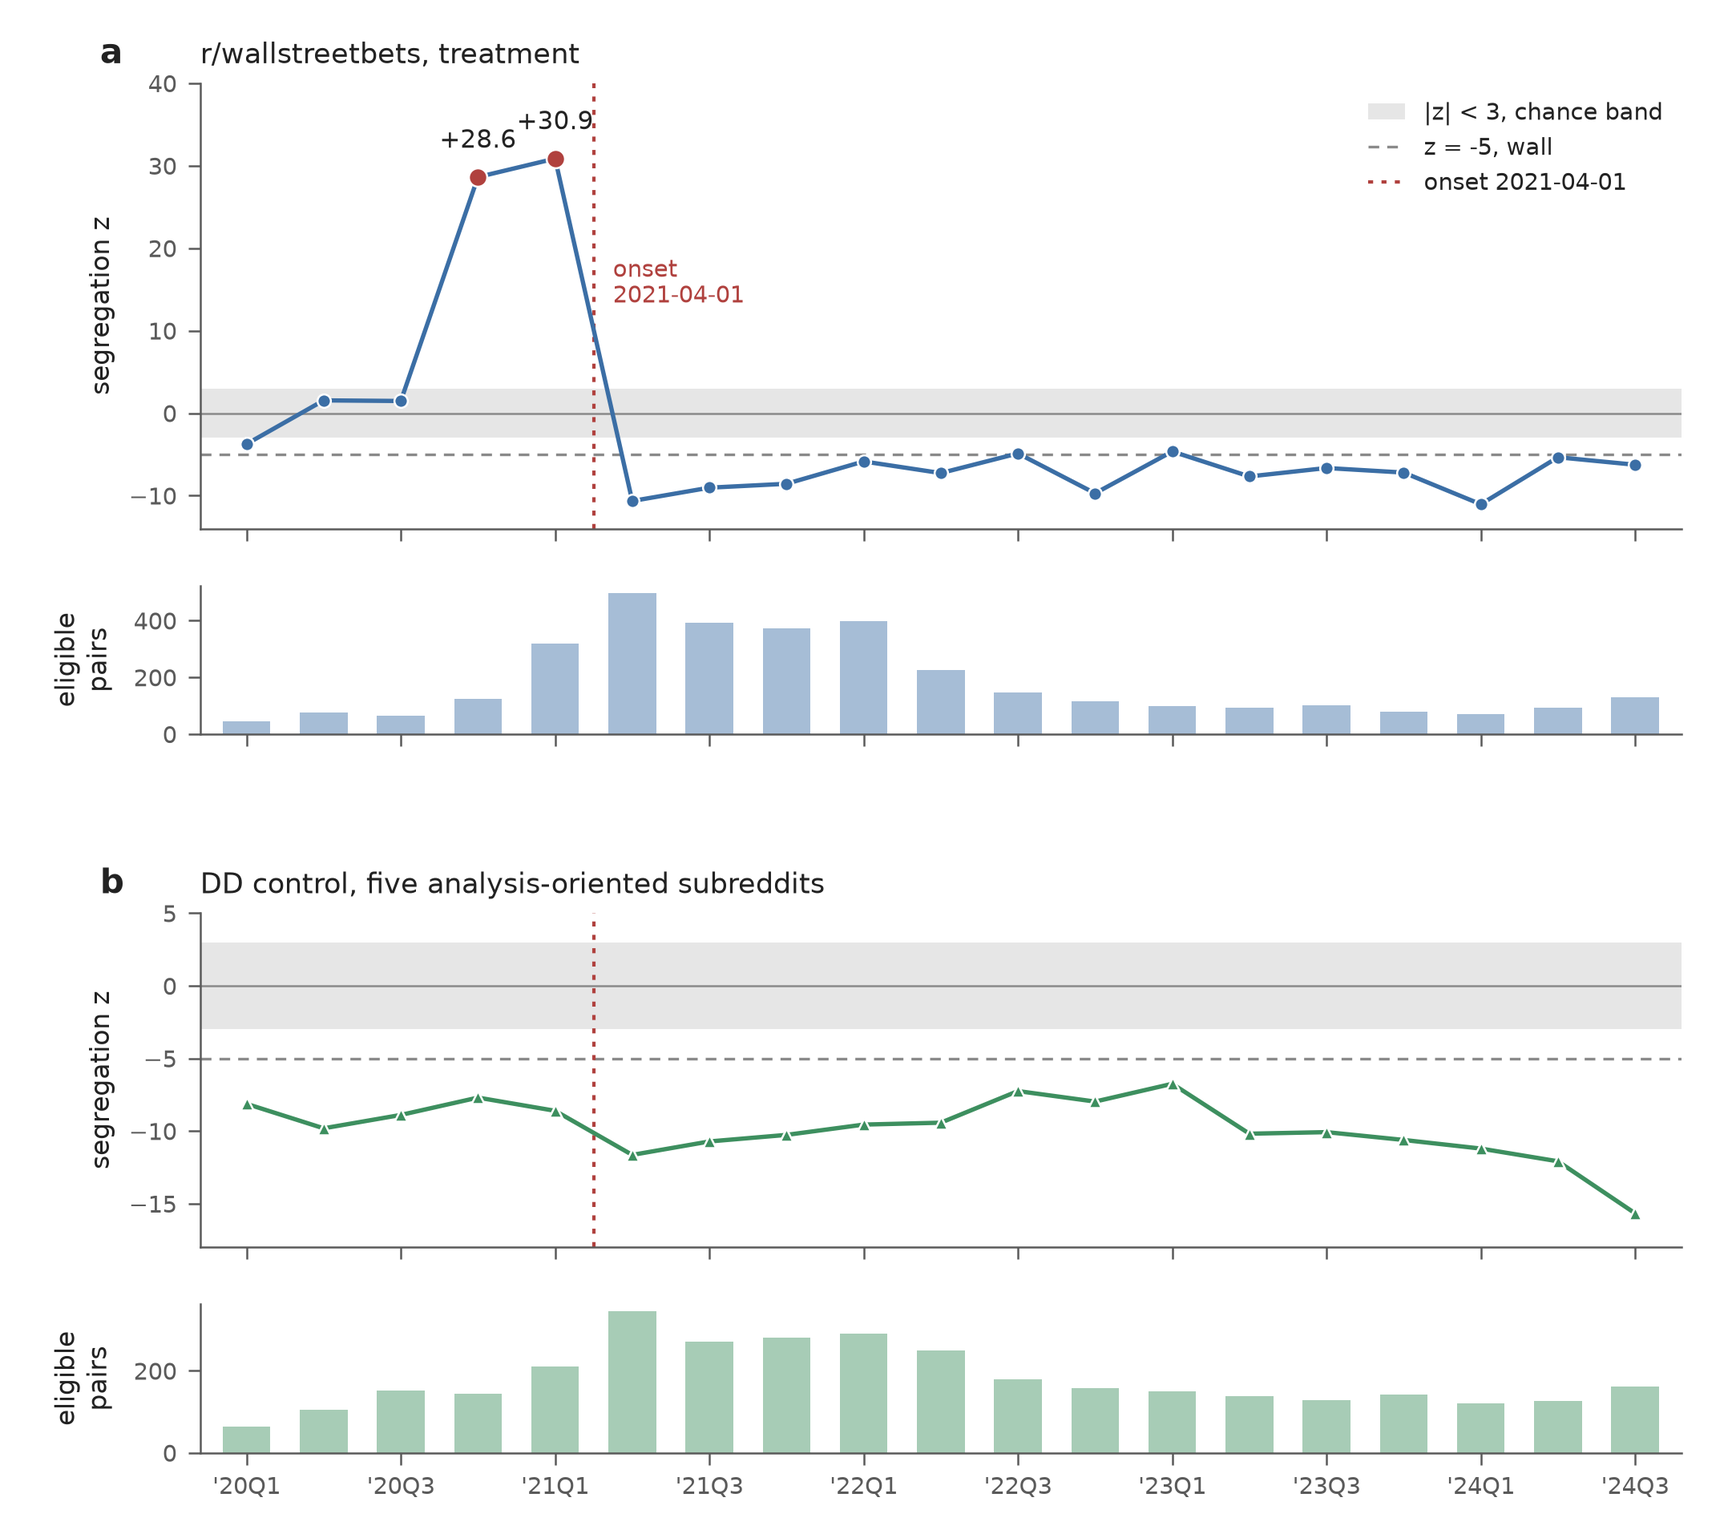
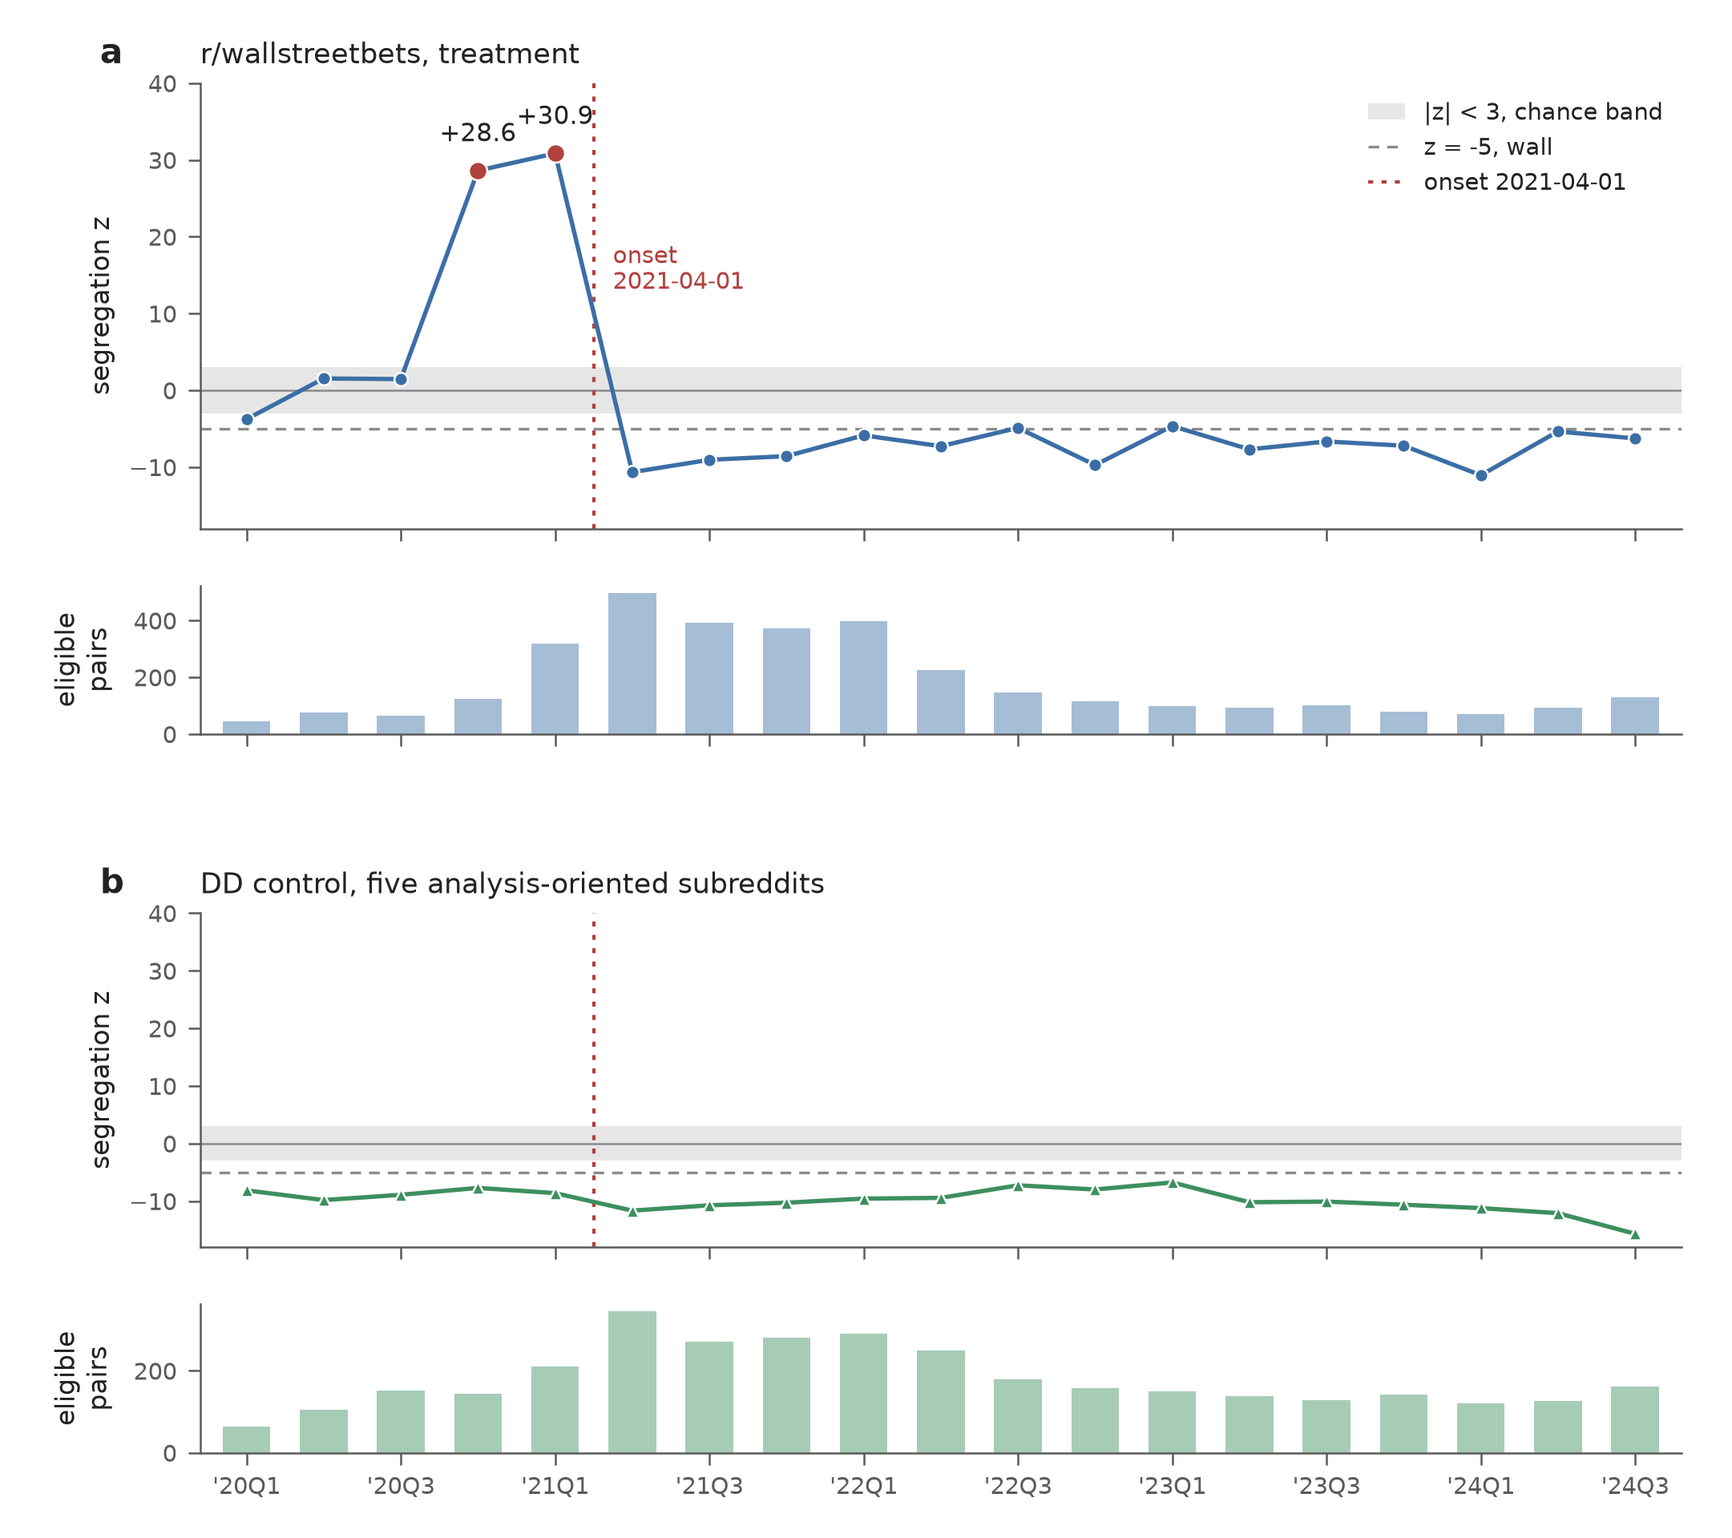
Paper 2 v0.5: references cleaned, A8 dated by Wayback (predates the squeeze; disclosed), A1 pre-lawsuit source added, tables numbered 1-7, Figure 2 panels share a y-scale
References: heading note removed; paper-1 entry reads "Preprint; SocArXiv
DOI inserted at posting"; anchor preamble loses the repo path; last
[verify] tag resolved. A8: Internet Archive captures of the subreddit
rules page show rule 4 without a market-cap clause on 2020-06-28 and
2020-09-12 and with "microcap (Less than $1BN Market Cap)" on 2021-01-22,
2021-02-14, 2021-03-11, 2021-04-01, 2021-08-22. The rule therefore
predates the squeeze peak and the moderator change. Disclosed as a
post-registration source check in Methods (anchors), the Discussion
(governance family A4 to A7 remains), and the Introduction bullet; the
registered anchor list and discrimination reading are left as committed;
no prediction depends on the anchors and no verdict changes. A1: Forbes
2021-01-28 (Brown) added beside the 2023 retrospective. Tables 1-7
captioned and cited from the text. Figure 2: DD panel on panel a's
y-scale (owner decision); legend updated. Status header v0.5.

Changed region(s): [[0.093, 0.6149, 0.9921, 0.7994], [0.093, 0.0615, 0.9921, 0.3382]]

diff --git a/eval/make_paper2_figs.py b/eval/make_paper2_figs.py
@@ -120,7 +120,7 @@ def fig1(W):
             ax.annotate(f"+{d['z']:.1f}", (x, d["z"]), xytext=(0, 7),
                         textcoords="offset points", ha="center", va="bottom",
                         fontsize=7.5, color=INK)
-    ax.set_ylim(-14, 40)
+    ax.set_ylim(-18, 40)                      # shared with panel b
     ax.set_ylabel("segregation z")
     panel_label(ax, "a")
     titled(ax, "r/wallstreetbets, treatment")
@@ -131,7 +131,7 @@ def fig1(W):
     reference_lines(ax)
     onset_line(ax, label_y=None, label=False)
     series(ax, dd, GREEN)
-    ax.set_ylim(-18, 5)
+    ax.set_ylim(-18, 40)                      # shared with panel a
     ax.set_ylabel("segregation z")
     panel_label(ax, "b")
     titled(ax, "DD control, five analysis-oriented subreddits", legend=False)

diff --git a/reports/paper2_draft.md b/reports/paper2_draft.md
@@ -2,12 +2,11 @@
 
 **Author:** Kevin Quiring (independent researcher)
 
-**Draft v0.4, 2026-09-01. Registered study (preregistration_paper2.md,
+**Draft v0.5, 2026-09-01. Registered study (preregistration_paper2.md,
 commit 99ffd9e, amendments V1-V4). All numbers are from the
 registration-conforming run (commit 21a9dc7); a disclosed implementation
 deviation and its rule-bound correction are reported in Methods.
-Commit references for every quantity are collected in the commit appendix. Structured as Introduction, Results, Discussion, Methods.
-Author prose pass in progress.**
+Commit references for every quantity are collected in the commit appendix. Structured as Introduction, Results, Discussion, Methods. Prose, jargon, and figure passes complete.**
 
 ---
 
@@ -67,7 +66,9 @@ calendar quarter. A pair of frequently mentioned tickers is *eligible*
 is at least 2 while its observed co-mention count is zero. The
 segregation statistic is the total observed evaluation-window co-mention count over all eligible pairs, standardized against a label-shuffle null (Methods). Two temporal folds bracket the 2020-2021 regime break:
 build 2017-2018 with evaluation 2019 (fold A), and build 2022-2023 with
-evaluation 2024 (fold B). The companion analysis's final values (its section "A second platform") read:
+evaluation 2024 (fold B). The companion analysis's final values (its section "A second platform") read as follows (Table 1).
+
+**Table 1.** Segregation z in the companion analysis, by stratum and fold, union lens.
 
 | stratum | fold A (eval 2019) | fold B (eval 2024) |
 |---------|-------------------:|-------------------:|
@@ -108,8 +109,7 @@ The candidate mechanisms, stated before any window was computed
   2021Q1.
 - **Governance.** After the squeeze, WSB's moderation regime changed
   wholesale: a mod-team regime change, automated ticker filtering,
-  containment-by-megathread, and a market-cap floor on discussable
-  tickers (anchors A4-A8; dated sources in Methods). If walls are
+  containment-by-megathread, and a market-cap floor on discussable tickers (anchors A4-A8; dated sources in Methods, where a later source check shows the market-cap floor predates the squeeze). If walls are
   topicality policing, onset should lag the event by months, tracking
   the datable rule changes through 2021.
 - **Era narratives.** Market-wide sector stories sort attention
@@ -245,8 +245,9 @@ existed; full specifications are in Methods.
 The registration fixed three predictions and, in a separate amendment
 committed before any window statistic existed, fixed in advance how
 each possible onset date would be read against the candidate
-mechanisms. Both are summarized here; the verbatim rules are in
-Methods.
+mechanisms. Both are summarized in Table 2; the verbatim rules are in Methods.
+
+**Table 2.** Registered predictions, the pre-committed reading of each outcome, and the observed result.
 
 | Registered item | Pre-committed reading | Observed |
 |---|---|---|
@@ -259,8 +260,9 @@ Methods.
 
 ### The endpoint survives a single data source (Part A)
 
-Rebuilt with API data in both folds, the fold-B endpoint
-cells read as follows, under the companion analysis's criterion, unchanged, and with its mixed-source values alongside for comparison:
+Rebuilt with API data in both folds, the fold-B endpoint cells read as follows (Table 3), under the companion analysis's criterion, unchanged, and with its mixed-source values alongside for comparison.
+
+**Table 3.** Part A: fold-B endpoint cells rebuilt on API data in both folds.
 
 | cell | eligible pairs | z (uniform API) | z (companion analysis, mixed sources) | formed | binomial p |
 |------|---------------:|----------------:|-------------------:|-------:|-----------:|
@@ -278,8 +280,9 @@ the transition study below runs on ground whose far end is secured.
 
 The primary cell is the WSB stratum under the union lens at B = 4:
 nineteen rolling windows with two-quarter evaluation intervals from
-2020Q1 through 2024Q4. It produces this series, with evaluation windows
-labelled by starting quarter:
+2020Q1 through 2024Q4. It produces the series in Table 4, with evaluation windows labelled by starting quarter.
+
+**Table 4.** Primary series: r/wallstreetbets, union lens, four-quarter build, nineteen rolling windows.
 
 | eval start | 20Q1 | 20Q2 | 20Q3 | 20Q4 | 21Q1 | 21Q2 | 21Q3 | 21Q4 | 22Q1 | 22Q2 | 22Q3 | 22Q4 | 23Q1 | 23Q2 | 23Q3 | 23Q4 | 24Q1 | 24Q2 | 24Q3 |
 |---|---:|---:|---:|---:|---:|---:|---:|---:|---:|---:|---:|---:|---:|---:|---:|---:|---:|---:|---:|
@@ -312,9 +315,9 @@ data, three and a half years without a single reversion.
 
 Between the chance-level regime and the walls sit two windows already
 visible in the series above. In the two evaluation windows straddling
-the GameStop episode (evaluation 2020Q4 to 2021Q1 and 2021Q1 to 2021Q2), the
-suppressed pairs of WSB co-mention at 28.6 and 30.9 standard deviations
-*above* their label-shuffle nulls:
+the GameStop episode (evaluation 2020Q4 to 2021Q1 and 2021Q1 to 2021Q2), the suppressed pairs of WSB co-mention at 28.6 and 30.9 standard deviations *above* their label-shuffle nulls (Table 5).
+
+**Table 5.** The two excursion windows, and the control stratum in the same windows.
 
 | cell (B=4, union) | eligible pairs | observed co-mentions | null mean | z | formed (secondary) | binomial p |
 |---|---:|---:|---:|---:|---:|---|
@@ -344,8 +347,9 @@ whether the machinery can produce the excursion from GME-era document
 structure alone. Each replicate applies an *outer* label shuffle that
 destroys any real author-ticker association. It then recomputes the
 full registered statistic from scratch: eligibility construction, inner
-shuffle null, R = 100. There are 20 replicates per excursion window,
-with per-replicate seeds documented:
+shuffle null, R = 100. There are 20 replicates per excursion window, with per-replicate seeds documented (Table 6).
+
+**Table 6.** Shuffled-data placebo: 20 replicates per excursion window against the real values.
 
 | window (eval) | placebo z mean | sd | min | max | placebo formed max | real z / formed |
 |---|---:|---:|---:|---:|---:|---|
@@ -370,7 +374,9 @@ one quarter later, sits at or far below chance.
 
 ### Specificity: the control stays walled through the squeeze
 
-The DD stratum, computed identically through the same calendar:
+The DD stratum, computed identically through the same calendar (Table 7).
+
+**Table 7.** Control series: DD stratum, union lens, four-quarter build.
 
 | eval start | 20Q1 | 20Q2 | 20Q3 | 20Q4 | 21Q1 | 21Q2 | 21Q3 | 21Q4 | 22Q1 | 22Q2 | 22Q3 | 22Q4 | 23Q1 | 23Q2 | 23Q3 | 23Q4 | 24Q1 | 24Q2 | 24Q3 |
 |---|---:|---:|---:|---:|---:|---:|---:|---:|---:|---:|---:|---:|---:|---:|---:|---:|---:|---:|---:|
@@ -438,9 +444,7 @@ control stratum moved gradually and monotonically the whole time.
 What the timing does *not* do is pick a mechanism, and the registration
 constrains what we may conclude here. The anchors amendment froze the
 discrimination rule before any window existed. Onset in 2021Q1 would
-have favored scale/fragmentation (the subscriber explosion, A2). Onset
-in late 2021 would have favored governance (the mod-team regime change,
-ticker-filter bot, megathread containment, and market-cap ban, A4-A8).
+have favored scale/fragmentation (the subscriber explosion, A2). Onset in late 2021 would have favored governance (the mod-team regime change, ticker-filter bot, megathread containment, and market-cap ban, A4-A8; a post-registration source check dates the market-cap ban to before the squeeze, so the governance family that remains is A4 to A7, Methods).
 Onset in 2021Q2 was named, in advance, as the non-separable case: both
 mechanism families active, and the design supporting neither over the
 other. The measured onset is 2021Q2. The ordering evidence is still
@@ -697,8 +701,7 @@ the walled endpoint is real and not an artifact of the data source. Part A remov
 Because "the onset matches event X" is cheap after the fact, a list of
 dated WSB governance events was collected and committed before any
 rolling-window statistic existed (Amendment V2; anchors file in the commit appendix). Eight anchors A1-A8 span April 2020 through
-August 2021: the pre-event removal of the subreddit's founder (A1,
-2020-04; Reimann 2023); the GameStop squeeze and roughly 30x
+August 2021: the pre-event removal of the subreddit's founder (A1, 2020-04; Brown 2021; Reimann 2023); the GameStop squeeze and roughly 30x
 subscriber explosion (A2, 2021-01; Bloomberg News 2021; Newsweek
 2021); the Discord ban and brief private-mode flip as moderation was
 overwhelmed (A3, 2021-01-27; Sandler 2021; Kotaku 2021); the mod-team
@@ -708,10 +711,7 @@ regime change (A4, 2021-02-04/05; Business Insider 2021; HotHardware
 containment-by-daily-thread demonstrated on crypto and reversed within
 a day (A6, 2021-04-14/15; Decrypt 2021; Bitcoin.com News 2021); the
 final GME megathread, pushing single-ticker attention out to spin-off
-subreddits (A7, 2021-04-16; Shacknews 2021); and the sub-$1B
-market-cap discussion ban (A8, in force by 2021-08; wallstbets101.com
-mirror; its introduction date is flagged in the amendment as unpinned
-and unusable for timing claims). The committed anchors file remains
+subreddits (A7, 2021-04-16; Shacknews 2021); and the sub-$1B market-cap discussion ban (A8, in force by 2021-08; wallstbets101.com mirror; its introduction date is flagged in the amendment as unpinned and unusable for timing claims). A source check made after registration, and after all results were known, dates A8 more tightly: archived copies of the subreddit's rules page show no market-cap clause on 2020-09-12 and the clause in place by 2021-01-22, before the squeeze peak and before the moderator change (reference list). The rule therefore predates the squeeze and is not a post-squeeze governance change. The registered anchor list and its discrimination reading are left as committed; the check changes no verdict, because no prediction depends on the anchors and the measured onset was already the non-separable case. The committed anchors file remains
 the pre-commitment record; its sources are itemized in the reference
 list.
 
@@ -816,7 +816,7 @@ beyond chance. The shaded band marks |z| < 3, the chance region; the
 dashed line marks the registered wall threshold z = -5; the vertical
 marker is the onset, 2021-04-01; the two labelled points are the
 excursion windows straddling the GameStop squeeze. (b) The DD control
-stratum over the same calendar. Beneath each z panel, the
+stratum over the same calendar, on the same y-scale as (a). Beneath each z panel, the
 number of eligible pairs in that window, which sets the power of that
 window's test; every z series in this paper is shown with this strip.
 
@@ -860,12 +860,10 @@ ahead of its result. The numbers in this paper trace as follows:
 | Figures 2-4 | eval/make_paper2_figs.py, reports/figures/p2_fig1-3 | 4360746; restyled 5eb7eb2, aligned 9735b96, padded aefe80b (shared style eval/paper2_figstyle.py) |
 | Companion analysis comparison values (final run) | gate table / gate_rerun_v2.log | f89cb2b, 1386fc0 |
 
-## References (all DOIs verified against Crossref 2026-09-01; one anchor source still marked [verify])
+## References
 
 - Quiring, K. (2026). The gaps that don't close: idea segregation
-  persists in twenty years of online discourse. Draft in the same
-  repository (reports/paper1_draft.md); the source observation is its
-  section "A second platform".
+  persists in twenty years of online discourse. Preprint; SocArXiv DOI inserted at posting. The source observation is its section "A second platform".
 - McPherson, M., Smith-Lovin, L., Cook, J.M. (2001). Birds of a
   feather: Homophily in social networks. *Annual Review of Sociology*
   27, 415-444. doi:10.1146/annurev.soc.27.1.415
@@ -918,12 +916,9 @@ ahead of its result. The numbers in this paper trace as follows:
 - Bikhchandani, S., Hirshleifer, D., Welch, I. (1992). A theory of
   fads, fashion, custom, and cultural change as informational cascades.
   *Journal of Political Economy* 100(5), 992-1026. doi:10.1086/261849
-- Anchor sources (the anchors file, reports/paper2_anchors.md,
-  committed before any window statistic existed, remains the
-  pre-commitment record; all URLs accessed 2026-08-31):
-  - Reimann, N. (2023). Founder of WallStreetBets, which sparked meme
-    stock craze, sues Reddit for ousting him. *Forbes*, February 15,
-    2023. (Documents the April 2020 removal.) [A1]
+- Anchor sources (the anchor list was committed before any window statistic existed and remains the pre-commitment record; URLs accessed 2026-08-31 unless noted):
+    - Brown, A. (2021). Founder of WallStreetBets discusses why the group unleashed chaos on GameStop, and why he's (really) exiled from Reddit. *Forbes*, January 28, 2021. (Pre-lawsuit account of the April 2020 removal.) [A1]
+  - Reimann, N. (2023). Founder of WallStreetBets, which sparked meme stock craze, sues Reddit for ousting him. *Forbes*, February 15, 2023. (Documents the April 2020 removal.) [A1]
   - Bloomberg News (2021). WallStreetBets gains more than a million new
     members overnight. *Bloomberg*, January 28, 2021. [A2]
   - Newsweek (2021). WallStreetBets subreddit gains 2 million members
@@ -948,9 +943,8 @@ ahead of its result. The numbers in this paper trace as follows:
     2021. [A6]
   - Shacknews (2021). r/wallstreetbets mods announce that today will be
     the final GME megathread. *Shacknews*, April 16, 2021. [A7]
-  - wallstbets101.com (2021). Mirror of an August 2021 r/wallstreetbets
-    post debating the sub-$1B market-cap rule. [A8; rule introduction
-    date unpinned, Wayback pass pending; verify]
+  - wallstbets101.com (2021). Mirror of an August 2021 r/wallstreetbets post debating the sub-$1B market-cap rule. [A8, the registered source]
+  - Internet Archive captures of https://www.reddit.com/r/wallstreetbets/about/rules (accessed 2026-09-01): rule 4 without a market-cap clause on 2020-06-28 (old.reddit.com capture) and 2020-09-12; rule 4 reading "microcap (Less than $1BN Market Cap)" on 2021-01-22 (old.reddit.com), 2021-02-14 (old.reddit.com), 2021-03-11, 2021-04-01, and 2021-08-22. [A8, post-registration date check]
 - Null-model lineage for the label-shuffle machinery (Connor &
   Simberloff 1979; Gotelli 2000; Gotelli & Ulrich 2012) as discussed in
   the companion paper's Related work and Discussion.

diff --git a/HANDOFF.md b/HANDOFF.md
@@ -62,17 +62,20 @@
   (updates in place). Same for paper1. Pages cross-link in their headers.
 
 ### Outstanding before preprint-ready
-Paper 2: (1) owner prose pass, abstract DONE, body in progress; (2) eight
-DOIs tagged [verify] in the references (Pedersen 2022 JFE; Watts 2002;
-Centola & Macy 2007; Bikhchandani et al. 1992; McPherson 2001; Cinelli
-2021; Swanson 1986) plus a check for a journal version of Semenova
-& Winkler (arXiv:2104.01847); (3) typeset to PDF with table numbering
-(tables are unnumbered inline); (4) packaging only: A8 Wayback pass over
-the subreddit rules page, contemporaneous April-2020 source for A1
-(currently Forbes 2023 retrospective); (5) the paper-1 reference must
-become paper 1's SocArXiv DOI at posting; (6) owner call: Figure 1 DD
-panel has its own y-scale (shared x + chance band); one-line change to
-share y. Estimate: ~half a day of mechanical work after the prose pass.
+Paper 2 (state at v0.5, e2c5c35+): prose, jargon and figure passes DONE;
+all DOIs Crossref-verified, no [verify] tags left; tables numbered 1-7;
+Figure 2 DD panel shares panel a's y-scale (owner call). A8 FINDING
+(2026-09-01, post-registration, disclosed in Methods/Discussion/Intro):
+Wayback captures of the WSB rules page show the sub-$1B market-cap
+clause ABSENT on 2020-09-12 and PRESENT by 2021-01-22, i.e. A8 predates
+the squeeze and is not a post-squeeze governance change; registered
+anchor list and discrimination reading left as committed; no verdict
+affected. A1 still cites the 2023 retrospective plus the pre-lawsuit
+Forbes 2021-01-28 interview (paywalled); no 2020-dated article found in
+four searches. Remaining before submission: (3) typeset to PDF; (4) A1 contemporaneous 2020 source if one turns up;
+(5) the paper-1 reference must become paper 1's SocArXiv DOI at posting;
+(6) confirm Nature Communications APC and read its human-behaviour
+reporting page. Everything else is done.
 Paper 1: owner prose pass; typeset; one consistency sentence to check
 (abstract "2006 to 2026" vs Sec 3.1 "active since 2007").
 
